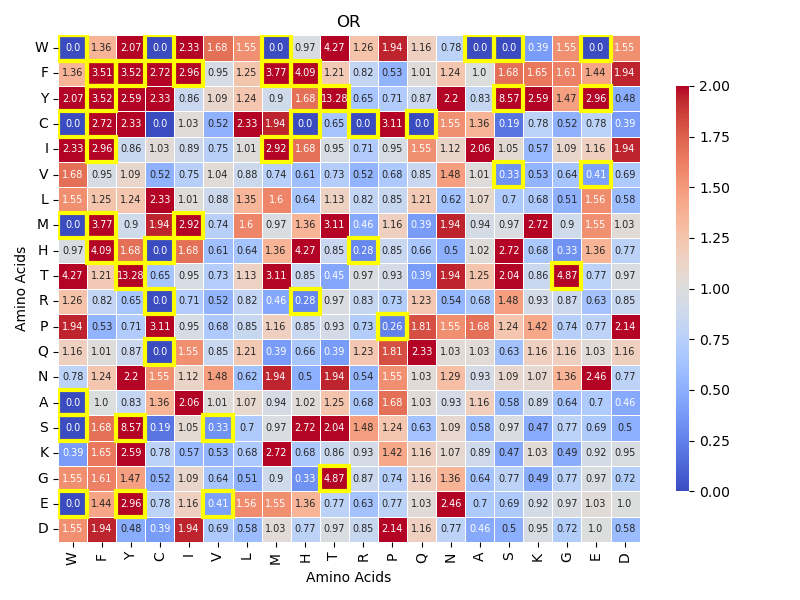
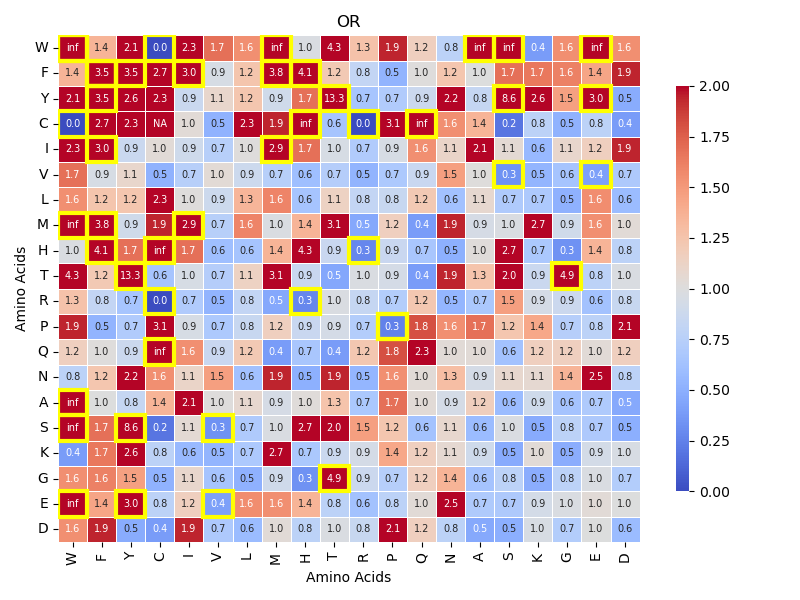
updated the plotting script to handel np.nan in pvalue dataframe

diff --git a/Sequence_Complexity_and_Discrimination/src/data/Plot_OR_results_with_permutation.py b/Sequence_Complexity_and_Discrimination/src/data/Plot_OR_results_with_permutation.py
@@ -141,14 +141,21 @@ class Plotter:
             #print(info, data_dict)
 
             df = data_dict['df']
-            print(df)
             pvalues_df = data_dict['pvalues']
 
-            df = df.replace([np.inf, -np.inf], np.nan).fillna(0)
+            #df = df.replace([np.inf, -np.inf], np.nan).fillna(0)
 
             plt.figure(figsize=(8, 6))
+
+            # Create a DataFrame for annotations, replacing `np.inf` with 'inf'
+            annotations = df.round(decimals=1).replace(np.inf, "inf").astype(str)
+            annotations.at['C', 'C'] = 'NA'
+            print(annotations)
+
+            df = df.replace([np.inf, -np.inf], np.nan).fillna(np.max(df.values[np.where(df.values != np.inf)]))
+            print(df)
             #heatmap = sns.heatmap(df, annot=df.round(decimal=1).astype(str)), fmt="", cmap="coolwarm", vmin=-60, vmax=60, linewidths=.5, cbar_kws={"shrink": .8, "aspect": 30})
-            heatmap = sns.heatmap(df, annot=df.round(decimals=2).astype(str), fmt="", cmap="coolwarm", vmin=0, vmax=2, linewidths=.5, cbar_kws={"shrink": .8, "aspect": 30}, annot_kws={"fontsize": 7})
+            heatmap = sns.heatmap(df, annot=annotations, fmt="", cmap="coolwarm", vmin=0, vmax=2, linewidths=.5, cbar_kws={"shrink": .8, "aspect": 30}, annot_kws={"fontsize": 7})
 
             # if there is a valid pvalue dataframe color those with values below 0.05 in a yellow highlight
             if isinstance(pvalues_df, pd.DataFrame):

diff --git a/Sequence_Complexity_and_Discrimination/README.md b/Sequence_Complexity_and_Discrimination/README.md
@@ -141,37 +141,6 @@ options:
 
 If you have the [SLUG] then you can use the command files located [here](src/command_lists/Plot_compare_energetics_with_permutation.cmds) to reproduce the results plots for the loop forming contact enrichment analysis used in this work in the experimental data set and the AlphaFold structures. Please modify any other pathing as necessary. 
   
-  
-## Results of loop forming contact enrichment analysis
-### Experimental structures
-For the cyto-serum only set of observal proteins using 100k permutations  
-![Cyto-serum loop forming contact enrichment](Figures/Contact_Enrichment/EXP/deltaDeltaE_C_50_p100000_EXP.png)  
-Raw data for plotting can be found [here](data/Contact_Enrichment/EXP/C_50_p100000/)  
-
-For the cyto-serum + Dnak only set of observal proteins using 100k permutations  
-![Cyto-serum + DnaK loop forming contact enrichment](Figures/Contact_Enrichment/EXP/deltaDeltaE_CD_50_p100000_EXP.png) 
-Raw data for plotting can be found [here](data/Contact_Enrichment/EXP/CD_50_p100000/)  
-  
-For the cyto-serum + GroEL only set of observal proteins using 100k permutations  
-![Cyto-serum + GroEL loop forming contact enrichment](Figures/Contact_Enrichment/EXP/deltaDeltaE_CG_50_p100000_EXP.png)  
-Raw data for plotting can be found [here](data/Contact_Enrichment/EXP/CG_50_p100000/)  
-  
-  
-
-### Alphafold structures
-For the cyto-serum only set of observal proteins using 100k permutations  
-![Cyto-serum loop forming contact enrichment](Figures/Contact_Enrichment/AF/deltaDeltaE_C_50_p100000_AF.png)  
-Raw data for plotting can be found [here](data/Contact_Enrichment/AF/C_50_p100000/)  
-  
-For the cyto-serum + Dnak only set of observal proteins using 100k permutations  
-![Cyto-serum + DnaK loop forming contact enrichment](Figures/Contact_Enrichment/AF/deltaDeltaE_CD_50_p100000_AF.png)  
-Raw data for plotting can be found [here](data/Contact_Enrichment/AF/CD_50_p100000/)  
-  
-For the cyto-serum + GroEL only set of observal proteins using 100k permutations  
-![Cyto-serum + GroEL loop forming contact enrichment](Figures/Contact_Enrichment/AF/deltaDeltaE_CG_50_p100000_AF.png)  
-Raw data for plotting can be found [here](data/Contact_Enrichment/AF/CG_50_p100000/)  
-  
-
 
 ## Results of loop forming contact enrichment analysis (OR instead of contact potential)
 ### Experimental structures
